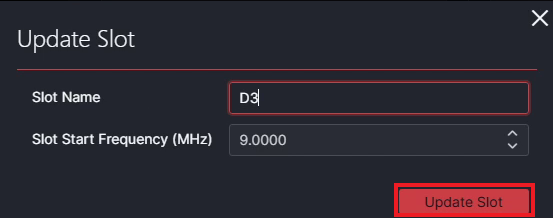
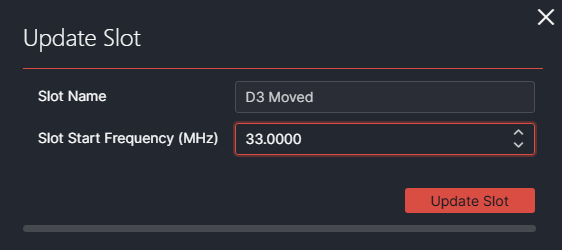
Clarify transponder plans and align screenshots with the text
Rework the transponder plans page so the text and the screenshots describe
the same demo data (SES-16 / T-04):

- Add a Plan states section covering Draft, Active and Deprecated, including
  both context menus, and make clear that plans are deprecated, never deleted.
- State that a transponder has exactly one permanent plan but can have any
  number of non-overlapping temporary plans.
- Replace the plan overview screenshot with one that shows all three states.
- Correct the slot sizes in From plan to schedule: 9 MHz under the permanent
  plan, 6 MHz under the temporary September plan.
- Document the Slots/Details toggle and add the transponder details screenshot.
- Document jumping to Satellite Scheduling and back, with new screenshots.
- Add the Create Slots confirmation dialog and fix the alt text of the
  affected images.

diff --git a/solutions/standard_solutions/SatOps/Satellite_Inventory/SI_Transponder_Plans.md b/solutions/standard_solutions/SatOps/Satellite_Inventory/SI_Transponder_Plans.md
@@ -13,11 +13,11 @@ You manage transponder plans from the *Slots* panel of a transponder.
 
 There are two types of transponder plans:
 
-- Permanent plan: The base plan of a transponder. It applies unless a temporary plan overrides it. A transponder can have **only one permanent plan**.
+- Permanent plan: The base plan of a transponder. It applies unless a temporary plan overrides it. A transponder has exactly one permanent plan, marked with an infinity icon.
 
-- Temporary plan: A time-boxed plan that overrides the permanent plan during a specific date range. Temporary plans **cannot overlap**.
+- Temporary plan: A time-boxed plan that overrides the permanent plan during a specific date range. A transponder can have any number of temporary plans, but their date ranges cannot overlap.
 
-The following diagram shows how permanent and temporary plans combine over time. The upper row shows the plans configured for the transponder. The lower row shows the effective plan used by Satellite Scheduling. During the temporary plan’s date range, the temporary plan overrides the permanent plan. Before and after that date range, the permanent plan applies.
+The following diagram shows how permanent and temporary plans combine over time. The upper row shows the plans configured for the transponder. The lower row shows the effective plan used by Satellite Scheduling. During the temporary plan's date range, the temporary plan overrides the permanent plan. Before and after that date range, the permanent plan applies.
 
 ![Illustration that shows that when there is a permanent plan and a temporary plan at the same time, the permanent plan is overridden during that time range and the Satellite Scheduling app uses that plan for bookings](~/solutions/images/SO_SI_Plan_Types_Timeline.png)
 
@@ -67,13 +67,13 @@ The following example shows an existing permanent plan for transponder 1 of Eute
 
 1. Click *Create plan*.
 
-   The plan is added to the overview in the pane on the right. An infinity icon in front of the plan name identifies a permanent plan.
+   The plan is added to the plan list on the left. An infinity icon in front of the plan name identifies a permanent plan.
 
    By default, the plan is in the *Draft* state. Before the plan can take effect, you [must activate it](#activating-a-plan).
 
 ### Examples
 
-The following rows illustrate how the settings interact for a transponder with a bandwidth range of 36 MHz:
+The following rows illustrate how the settings interact for a transponder with a bandwidth range of 36 MHz. Apart from the second row, these are the rows of the permanent plan shown further down on this page.
 
 - Bandwidth 36, step size 36, offset 0, limit 36: Generates one slot that uses the entire capacity.
 
@@ -97,14 +97,26 @@ To generate the slots:
 
 1. In the pop-up window, select *Create Slots*.
 
+   ![The confirmation dialog shown before slots are generated](~/solutions/images/SO_SI_Create_Slots_Confirm.png)
+
    > [!IMPORTANT]
    > Any previously generated slots for the plan will be replaced.
 
    The slots are generated based on the *Transponder Plan Config* settings configured for the plan.
 
-   The app immediately shows a visualization of the resulting slot layout. A details pane provides more information about the transponder. This information is relevant because slot frequencies are expressed relative to the start and end frequencies of the complete transponder.
+   The app immediately shows a visualization of the resulting slot layout, with the full list of slots below it.
 
-   ![The generated transponder slots with a details pane](~/solutions/images/SO_SI_Transponder_Slots.png)
+   ![The generated transponder slots for the selected plan](~/solutions/images/SO_SI_Transponder_Slots.png)
+
+## Checking the transponder details
+
+Slot frequencies are expressed relative to the start and end frequencies of the transponder, so it is often useful to have those numbers at hand.
+
+At the top of the panel, switch from *Slots* to *Details*. This replaces the slot layout with the transponder settings: state, bandwidth, band, beam, start and end frequency, downlink start and end frequency, and polarization.
+
+![The Details view of a transponder, showing bandwidth, band, beam, frequencies, and polarization](~/solutions/images/SO_SI_Transponder_Details.png)
+
+Switch back to *Slots* to return to the plan overview.
 
 ## Editing a slot
 
@@ -118,22 +130,64 @@ After generating the slots, you can change the auto-generated name and the start
 
 1. Click *Update Slot* to save your changes.
 
-![The Update Slot dialog where you can change the slot name and start frequency](~/solutions/images/SO_SI_Update_Slot.png)
+![The Update Slot dialog, where slot D3 is renamed to D3 Moved and its start frequency is set to 33 MHz](~/solutions/images/SO_SI_Update_Slot.png)
 
-## Activating a plan
+The edited slot keeps its new name in the slot overview and in Satellite Scheduling.
+
+## Plan states
+
+Every plan carries a state label on its card in the plan list:
+
+- *Draft*: The plan exists but has no effect. New plans always start here.
+
+- *Active*: The plan is in effect. Satellite Scheduling uses it for the period it covers.
+
+- *Deprecated*: The plan is retired and no longer has any effect.
+
+Plans cannot be deleted. When you no longer need a plan, you deprecate it. It stays in the overview as a record of what was configured. Use the *All*, *Active*, *Draft*, and *Deprecated* filters above the plan list to control which plans are shown.
+
+The example below shows transponder T-04 of SES-16 with three plans: an active permanent plan, a temporary plan for October that was deprecated, and an active temporary plan for September. The permanent plan is selected, so the pane on the right shows its *Plan configs* and the slots generated from them.
+
+![The Slots panel with an active permanent plan, a deprecated temporary plan, and an active temporary plan, and the plan configs and slots of the selected permanent plan](~/solutions/images/SO_SI_Plan_Overview.png)
+
+### Activating a plan
 
 After a plan is created, its state is automatically set to *Draft*. You must activate the plan before it takes effect.
-
-To activate a plan:
 
 1. Click the ![More](~/solutions/images/SO_SI_More_Icon.png) *More* icon next to the transponder plan name.
 
 1. Select *Activate* from the context menu.
 
+   ![The context menu of a draft plan, with the options Edit plan, Activate, and Duplicate](~/solutions/images/SO_SI_Plan_Context_Menu_Draft.png)
+
+### Deprecating a plan
+
+An active plan can be taken out of service at any time. There is no delete option, so deprecating is how you retire a plan.
+
+1. Click the ![More](~/solutions/images/SO_SI_More_Icon.png) *More* icon next to the transponder plan name.
+
+1. Select *Deprecate* from the context menu.
+
+   ![The context menu of an active plan, with the options Edit plan, Duplicate, and Deprecate](~/solutions/images/SO_SI_Plan_Context_Menu_Active.png)
+
+The *Duplicate* option in the same menu copies a plan with all its config rows. This is useful when a new temporary plan only differs from an existing one in its date range.
+
 ## From plan to schedule
 
-The generated slots are the units of capacity that can be booked in Satellite Scheduling. From a plan, you can go directly to the corresponding view in the [Satellite Scheduling app](xref:Satellite_Scheduling) to see the bookings and then return to the transponder in the Satellite Inventory app.
+The generated slots are the units of capacity that can be booked in Satellite Scheduling. From a plan, you can jump straight to the matching view in the [Satellite Scheduling app](xref:Satellite_Scheduling) to see the bookings, and then return to the transponder in the Satellite Inventory app.
 
-Because the effective plan can change over time, the scheduling timeline always reflects the plan that applies at each point in time. In the example below, 6 MHz slots are bookable under the permanent plan, while 9 MHz slots become bookable while the temporary plan is active in August.
+Because the effective plan changes over time, the scheduling timeline shows the slots of the plan that applies at each point in time. In the example used here, the permanent plan of T-04 generates 9 MHz slots A9, B9, and C9. The temporary plan that runs from 1 September generates 6 MHz slots A6 through F6 instead.
 
-![The Slots panel showing permanent and temporary transponder plans in the plan overview](~/solutions/images/SO_SI_Plan_Overview.png)
+![The plan configs and generated slots of the temporary September plan, with a single 6 MHz row producing slots A6 to F6](~/solutions/images/SO_SI_Temporary_Plan_Slots.png)
+
+To open the transponder in Satellite Scheduling, click the transponder name in the header of the *Slots* panel.
+
+![The transponder name button in the header of the Slots panel](~/solutions/images/SO_SI_Open_In_Scheduling.png)
+
+The timeline opens filtered on that transponder. Here the switch between both plans is visible: the 9 MHz slots apply in August, and from 1 September the 6 MHz slots take over.
+
+![A Satellite Scheduling timeline for transponder T-04, showing 9 MHz slots in August and 6 MHz slots from 1 September](~/solutions/images/SO_SS_Timeline_Plan_Switch.png)
+
+To go back to the transponder in Satellite Inventory, click the transponder block in the left column of the timeline.
+
+![The transponder block in the left column of the Satellite Scheduling timeline, showing the transponder name, its bandwidth, and its frequency range](~/solutions/images/SO_SS_Back_To_Inventory.png)
